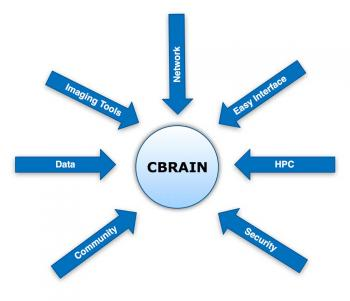
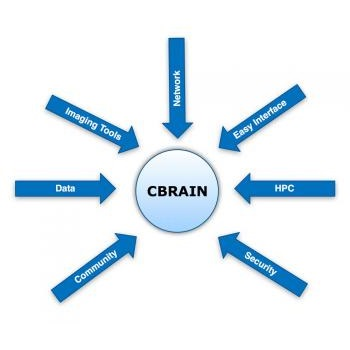
Replaced images on projects page.

diff --git a/public_html/index.html b/public_html/index.html
@@ -61,7 +61,7 @@
         <h3 class="top-header">Major Projects</h3>
         <p class="project">
           <a href="https://brainbrowser.cbrain.mcgill.ca" target="_blank"><img class="menu-image" src="/img/brainbrowser.png" /></a>
-          <a href="https://brainbrowser.cbrain.mcgill.ca" target="_blank">BrainBrowser</a> is a real-time 3D neurogical data viewer written using HTML5 and related technologies such as WebGL and web workers. The application was originally written by a former colleague of mine, <a href="http://nickassis.net/" target="_blank">Nicolas Kassis</a>, for Google's now defunct O3D plugin. I took over the project in the last few months, ported the code to three.js, added web workers to parse data files in the background, as well as adding other features. The source code for BrainBrowser is available on <a href="https://github.com/aces/brainbrowser" target="_blank">GitHub</a>
+          <a href="https://brainbrowser.cbrain.mcgill.ca" target="_blank">BrainBrowser</a> is a JavaScript library for inserting a neurological data viewer into a standard web page. Written using HTML5 and related technologies such as WebGL and web workers, BrainBrowser allows researchers to visualize and distribute their data in ways that were previously impossible. The BrainBrowser library includes the <em>Surface Viewer</em>, a WebGL-based viewer for surface data in a variety of formats, and the <em>Volume Viewer</em>, an HTML5 Canvas-based viewer for volumetric MINC data. The source code for BrainBrowser is available on <a href="https://github.com/aces/brainbrowser" target="_blank">GitHub</a>
         </p>
         <p class="project">
           <a href="http://cbrain.mcgill.ca" target="_blank"><img class="menu-image" src="/img/cbrain.jpg" /></a>
@@ -79,7 +79,7 @@
         <h3>Libraries</h3>
         <p class="project">
           <a href="https://github.com/tsherif/oFactory" target="_blank"><img class="menu-image" src="/img/ofactory.png" /></a>
-          <a href="https://github.com/tsherif/oFactory" target="_blank">oFactory</a> is a simple, experimental JavaScript library for building factories. Emerging from an <a href="/blog/2013/08/constructors-are-bad-for-javascript/" target="_blank">analysis I wrote</a> about the problems with using JavaScript constructors, oFactory was essentially conceived as a simplified version of <a href="http://ericleads.com/" target="_blank">Eric Elliot</a>'s <a href="https://github.com/dilvie/stampit" target="_blank">stampit</a> library, from which it draws heavy inspiration. 
+          <a href="https://github.com/tsherif/oFactory" target="_blank">oFactory</a> is a JavaScript library for building factories. Emerging from an <a href="/blog/2013/08/constructors-are-bad-for-javascript/" target="_blank">analysis I wrote</a> about the problems with using JavaScript constructors, oFactory was essentially conceived as a simplified version of <a href="http://ericleads.com/" target="_blank">Eric Elliot</a>'s <a href="https://github.com/dilvie/stampit" target="_blank">stampit</a> library, from which it draws heavy inspiration. 
         </p>
         <p class="project">
           <a href="https://github.com/tsherif/tgame" target="_blank"><img class="menu-image" src="/img/tgame.png" /></a>

diff --git a/public_html/css/tareksherif.css b/public_html/css/tareksherif.css
@@ -129,13 +129,13 @@ a img {
 }
 
 #main-menu .tab .project {
-  min-height: 95px;
+  min-height: 112px;
 }
 
 .menu-image {
   float:left;
   margin-right: 1em;
-  width: 140px;
+  width: 120px;
 }
 
 #webgl-replacement {
